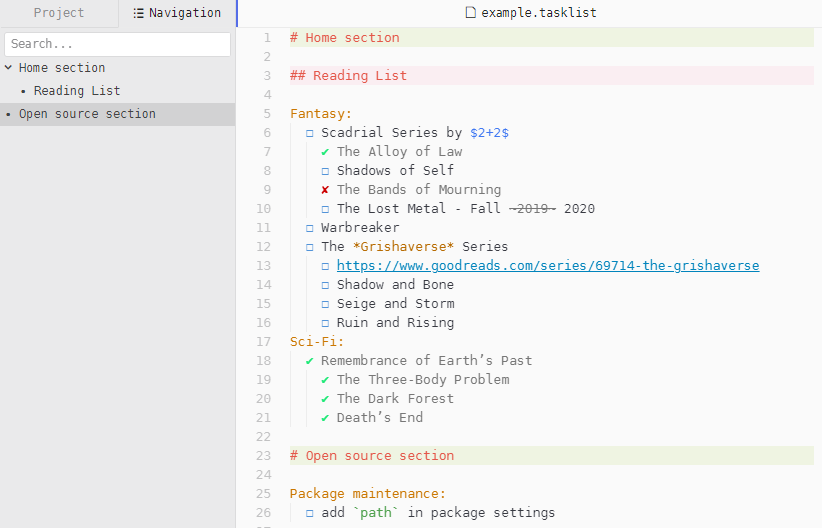
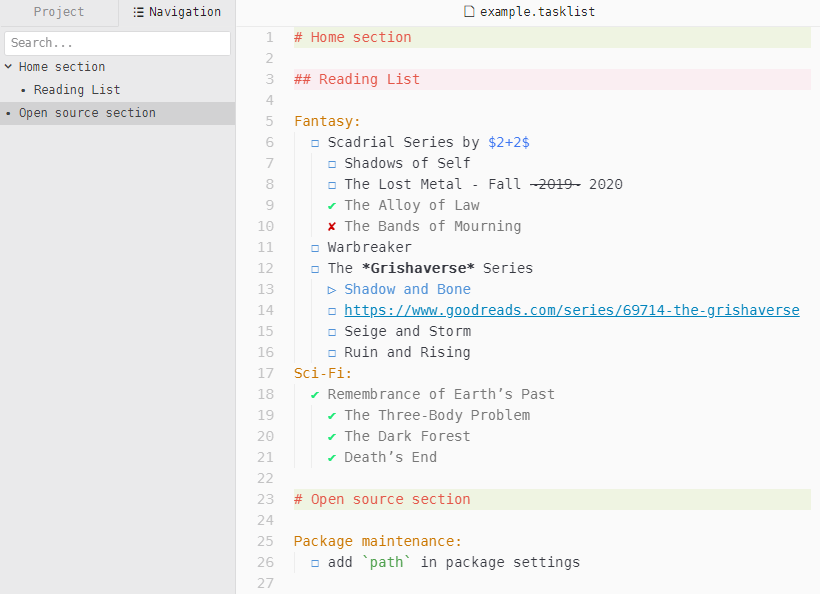
add high & new formats

diff --git a/styles/language-tasklist.less b/styles/language-tasklist.less
@@ -7,20 +7,26 @@
   &.syntax--header {
     color: @syntax-color-class;
   }
-  &.syntax--markup {
-    &.syntax--pass {
-      color: @text-color-subtle;
+  &.syntax--format {
+    &.syntax--strike {
       text-decoration: line-through;
     }
-    &.syntax--info {
-      color: @syntax-color-attribute;
+    &.syntax--bold {
+      font-weight: bold;
+    }
+    &.syntax--italic {
+      font-style: italic;
     }
     &.syntax--math {
       color: @syntax-color-function;
     }
-    &.syntax--code {
+    &.syntax--raw {
       color: @syntax-color-snippet;
     }
+  }
+  &.syntax--high {
+    &.syntax--tick { color: @text-color-info }
+    &.syntax--text { color: @text-color-info }
   }
   &.syntax--todo {
     &.syntax--tick { color: @text-color-info }

diff --git a/README.md b/README.md
@@ -46,13 +46,13 @@ Alternatively, you can directly install [language-tasklist](https://web.pulsar-e
 ## Features
 
 - A task is a single line in the editor that consists of a tick and text.
-- The ticks `☐`, `✔`, `✘` are represented using Unicode characters.
-- Any line starting with `#` is a chapter.
+- The ticks `▷` (U+25B7), `☐` (U+2610), `✔` (U+2714) and `✘` (U+2718) are represented using Unicode characters.
+- Any line starting with `#` is a chapter, indentation is not allowed, multilevel are supported.
 - Any line ending with `:` is a header.
-- Supports of `~text~`, `*text*`, `$text$`, and `` `text` `` markups.
+- Supports of `~text~`, `*text*`, `_text_`, `$text$`, and `` `text` `` formats.
 - Tasklists can be injected using the `tasklist` selector.
 - Two spaces indentation of tasks recommended.
-- An outline is provided by [navigation-panel](https://github.com/bacadra/atom-navigation-panel).
+- An outline & folding are provided by [navigation-panel](https://github.com/bacadra/atom-navigation-panel).
 
 ## Customization
 
@@ -77,6 +77,14 @@ You can customize the tasklist by using custom CSS. Here are some examples:
     &.syntax--chapter {
       font-weight: bold;
     }
+  }
+  ```
+
+- Change color of high tasks to eye-catching:
+
+  ```less
+  .syntax--tasklist.syntax--high.syntax--text {
+    color: red;
   }
   ```
 
